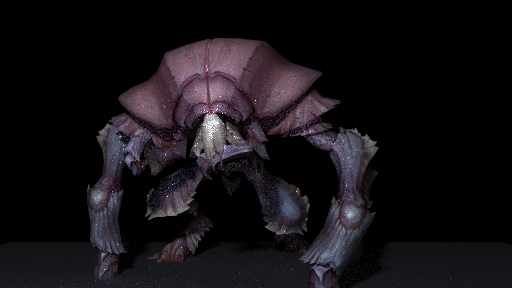
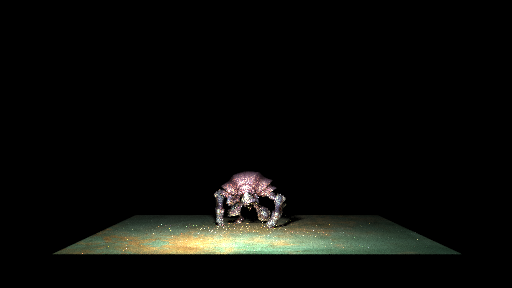
fix fbx lights

diff --git a/core/utilities/fbx_mesh_loader.cpp b/core/utilities/fbx_mesh_loader.cpp
@@ -266,12 +266,11 @@ std::vector<std::shared_ptr<camera>> fbx_mesh_loader::get_cameras(fbx_mesh_data&
             double diagonal = ofbxcam->getFocalLength(); // Example: 35mm sensor diagonal (lens in 3ds max)
             sensor_dimensions dimensions = calculateSensorDimensions(diagonal, aspectRatio);
 
-            
             if (ofbxcam->getProjectionType() == ofbx::Camera::ProjectionType::ORTHOGRAPHIC)
             {
                 // Orthographic camera
                 c = std::make_shared<orthographic_camera>();
-                c->ortho_height = 2;
+                c->ortho_height = 2.0;
                 c->vfov = 0;
                 c->is_orthographic = true;
             }
@@ -346,26 +345,32 @@ std::vector<std::shared_ptr<light>> fbx_mesh_loader::get_lights(fbx_mesh_data& d
             // Extract the light's local transformation matrix
             const ofbx::DMatrix light_transform = ofbxlight->getGlobalTransform();
 
-            ofbx::DVec3 translation, rotation, scale;
-            decomposeDMatrix(light_transform, translation, rotation, scale);
-
-            vector3 pos = vector3(translation.x, translation.y, translation.z);
-            //vector3 rot = vector3(rotation.x, rotation.y, rotation.z);
-            double radius = 3.0 * 5.0; // 1.0;
+            vector3 pos = vector3(0, 0, 0);
             double intensity = ofbxlight->getIntensity() / 5.0; // multiplier in 3ds max
             color rgb = color(ofbxlight->getColor().r, ofbxlight->getColor().g, ofbxlight->getColor().b);
 
-
             if (ofbxlight->getLightType() == ofbx::Light::LightType::POINT)
             {
-                l = std::make_shared<omni_light>(pos, radius, intensity, rgb, ofbxlight->name, false);
+                double radius = 3.0 * 5.0; // 1.0;
+
+                apply_transformation_to_omni(light_transform, pos);
+
+                l = std::make_shared<omni_light>(pos, radius, intensity, rgb, ofbxlight->name, true);
             }
             else if (ofbxlight->getLightType() == ofbx::Light::LightType::DIRECTIONAL)
             {
-                vector3 u(2.0, 0.0, 0.0);
-                vector3 v(0.0, 2.0, 0.0);
+                vector3 u(200, 0.0, 0.0);
+                vector3 v(0.0, 0.0, 200);
 
-                l = std::make_shared<directional_light>(pos, u, v, intensity, rgb, ofbxlight->name, false);
+                // Apply transformation
+                apply_transformation_to_directional(light_transform, pos, u, v);
+
+                l = std::make_shared<directional_light>(pos, u, v, intensity / 3.0, rgb, ofbxlight->name, true);
+            }
+            else if (ofbxlight->getLightType() == ofbx::Light::LightType::SPOT)
+            {
+                //ofbxlight->spo
+                //l = std::make_shared<spot_light>(pos, u, v, intensity, rgb, ofbxlight->name, false);
             }
 
             lights.emplace_back(l);
@@ -435,9 +440,7 @@ std::shared_ptr<phong_material> fbx_mesh_loader::extractMeshMaterials(const ofbx
                 const ofbx::DataView dv = diffuseTexture->getFileName();
                 char buffer[256] = {}; // Ensure the buffer is large enough
                 dv.toString(buffer);  // Converts DataView to a null-terminated string
-
-                std::string www(buffer);
-                tex_diffuse = std::make_shared<image_texture>(www);
+                tex_diffuse = std::make_shared<image_texture>(std::string(buffer));
                 std::cout << "[INFO] Diffuse texture " << buffer << std::endl;
             }
 
@@ -446,9 +449,7 @@ std::shared_ptr<phong_material> fbx_mesh_loader::extractMeshMaterials(const ofbx
                 const ofbx::DataView dv = specularTexture->getFileName();
                 char buffer[256] = {}; // Ensure the buffer is large enough
                 dv.toString(buffer);  // Converts DataView to a null-terminated string
-
-                std::string www(buffer);
-                tex_specular = std::make_shared<image_texture>(www);
+                tex_specular = std::make_shared<image_texture>(std::string(buffer));
                 std::cout << "[INFO] Specular texture " << buffer << std::endl;
             }
 
@@ -465,12 +466,11 @@ std::shared_ptr<phong_material> fbx_mesh_loader::extractMeshMaterials(const ofbx
     std::shared_ptr<phong_material> mesh_material = std::make_shared<phong_material>(std::make_shared<solid_color_texture>(1, 0, 0));
     if (tex_diffuse)
     {
-        mesh_material = std::make_shared<phong_material>(tex_diffuse, tex_specular, color(0.0, 0.0, 0.0, 1.0), 10.0);
+        mesh_material = std::make_shared<phong_material>(tex_diffuse, tex_specular, color(0.0, 0.0, 0.0), 10.0);
     }
 
     return mesh_material;
 }
-
 
 void fbx_mesh_loader::computeTangentBasis(std::array<vector3, 3>& vertices, std::array<vector2, 3>& uvs, std::array<vector3, 3>& normals, std::array<vector3, 3>& tangents, std::array<vector3, 3>& bitangents)
 {
@@ -530,6 +530,7 @@ double fbx_mesh_loader::vectorLength(const ofbx::DVec3& vec)
     return std::sqrt(vec.x * vec.x + vec.y * vec.y + vec.z * vec.z);
 }
 
+// Function to decompose a DMatrix into translation, rotation, and scale
 void fbx_mesh_loader::decomposeDMatrix(const ofbx::DMatrix& matrix, ofbx::DVec3& translation, ofbx::DVec3& rotation, ofbx::DVec3& scale)
 {
     // Extract translation
@@ -542,35 +543,67 @@ void fbx_mesh_loader::decomposeDMatrix(const ofbx::DMatrix& matrix, ofbx::DVec3&
     scale.y = sqrt(matrix.m[4] * matrix.m[4] + matrix.m[5] * matrix.m[5] + matrix.m[6] * matrix.m[6]);
     scale.z = sqrt(matrix.m[8] * matrix.m[8] + matrix.m[9] * matrix.m[9] + matrix.m[10] * matrix.m[10]);
 
-    // Normalize matrix rows to remove scale
+    // Normalize matrix columns to remove scale
     ofbx::DMatrix rotationMatrix = matrix;
     rotationMatrix.m[0] /= scale.x;
     rotationMatrix.m[1] /= scale.x;
     rotationMatrix.m[2] /= scale.x;
-
     rotationMatrix.m[4] /= scale.y;
     rotationMatrix.m[5] /= scale.y;
     rotationMatrix.m[6] /= scale.y;
-
     rotationMatrix.m[8] /= scale.z;
     rotationMatrix.m[9] /= scale.z;
     rotationMatrix.m[10] /= scale.z;
 
-    // Extract rotation (assuming XYZ Euler angles)
+    // Extract rotation
     rotation.y = asin(-rotationMatrix.m[2]); // Rotation around Y-axis
-    if (fabs(cos(rotation.y)) > 1e-6) { // Not at a singularity
+    if (cos(rotation.y) != 0) {
         rotation.x = atan2(rotationMatrix.m[6], rotationMatrix.m[10]); // Rotation around X-axis
         rotation.z = atan2(rotationMatrix.m[1], rotationMatrix.m[0]);  // Rotation around Z-axis
     }
-    else { // Gimbal lock case
+    else {
         rotation.x = atan2(-rotationMatrix.m[9], rotationMatrix.m[5]);
         rotation.z = 0.0;
     }
 
     // Convert radians to degrees
+    const double RAD_TO_DEG = 180.0 / M_PI;
     rotation.x *= RAD_TO_DEG;
     rotation.y *= RAD_TO_DEG;
     rotation.z *= RAD_TO_DEG;
+}
+
+vector3 fbx_mesh_loader::transform_vector(const ofbx::DMatrix& matrix, const vector3& vec)
+{
+    vector3 result;
+    result.x = matrix.m[0] * vec.x + matrix.m[4] * vec.y + matrix.m[8] * vec.z + matrix.m[12];
+    result.y = matrix.m[1] * vec.x + matrix.m[5] * vec.y + matrix.m[9] * vec.z + matrix.m[13];
+    result.z = matrix.m[2] * vec.x + matrix.m[6] * vec.y + matrix.m[10] * vec.z + matrix.m[14];
+    return result;
+}
+
+void fbx_mesh_loader::apply_transformation_to_omni(const ofbx::DMatrix& matrix, vector3& pos)
+{
+    // Transform position (includes translation)
+    pos = transform_vector(matrix, pos);
+}
+
+void fbx_mesh_loader::apply_transformation_to_directional(const ofbx::DMatrix& matrix, vector3& pos, vector3& u, vector3& v)
+{
+    // Transform position (includes translation)
+    pos = transform_vector(matrix, pos);
+
+    // Transform u and v as directions
+    vector3 origin = { 0, 0, 0 };
+    vector3 transformed_u = transform_vector(matrix, u) - transform_vector(matrix, origin);
+    vector3 transformed_v = transform_vector(matrix, v) - transform_vector(matrix, origin);
+
+    // Center the quad around the transformed position
+    u = transformed_u * 0.5;
+    v = transformed_v * 0.5;
+
+    // Update position to the center of the quad
+    pos = pos - u - v; // Adjust position to the new bottom-left corner
 }
 
 void fbx_mesh_loader::get_metadata(const ofbx::IScene* scene)

diff --git a/core/utilities/fbx_mesh_loader.h b/core/utilities/fbx_mesh_loader.h
@@ -64,8 +64,13 @@ private:
     static double getVerticalFOV(const ofbx::Object* camera, double sensorHeight);
     static sensor_dimensions calculateSensorDimensions(double diagonal, double aspectRatio);
 
-    // Function to decompose a DMatrix into translation, rotation, and scale
     static void decomposeDMatrix(const ofbx::DMatrix& matrix, ofbx::DVec3& translation, ofbx::DVec3& rotation, ofbx::DVec3& scale);
+
+    static vector3 transform_vector(const ofbx::DMatrix& matrix, const vector3& vec);
+
+    static void apply_transformation_to_omni(const ofbx::DMatrix& matrix, vector3& pos);
+
+    static void apply_transformation_to_directional(const ofbx::DMatrix& matrix, vector3& pos, vector3& u, vector3& v);
 
     static void get_metadata(const ofbx::IScene* scene);
 };

diff --git a/core/materials/diffuse_light.cpp b/core/materials/diffuse_light.cpp
@@ -37,17 +37,13 @@ color diffuse_light::emitted(const ray& r_in, const hit_record& rec, double u, d
             // light
             return m_emit->value(u, v, p) * m_intensity;
         }
-        else
+        else if (m_invisible)
         {
             // no light
             return color(0, 0, 0, 0);
         }
     }
-    else
-    {
-        // light
-        return m_emit->value(u, v, p) * m_intensity;
-    }
 
+    // light
     return m_emit->value(u, v, p) * m_intensity;
 }

diff --git a/core/lights/directional_light.cpp b/core/lights/directional_light.cpp
@@ -24,8 +24,6 @@ directional_light::directional_light(const point3& _position, const vector3& _u,
     
 void directional_light::set_bounding_box()
 {
-    //m_bbox = aabb(m_position, m_position + m_u + m_v).pad();
-
     // Calculate the quad's corners
     point3 corner1 = m_position - 0.5 * (m_u + m_v);
     point3 corner2 = m_position + 0.5 * (m_u + m_v);
